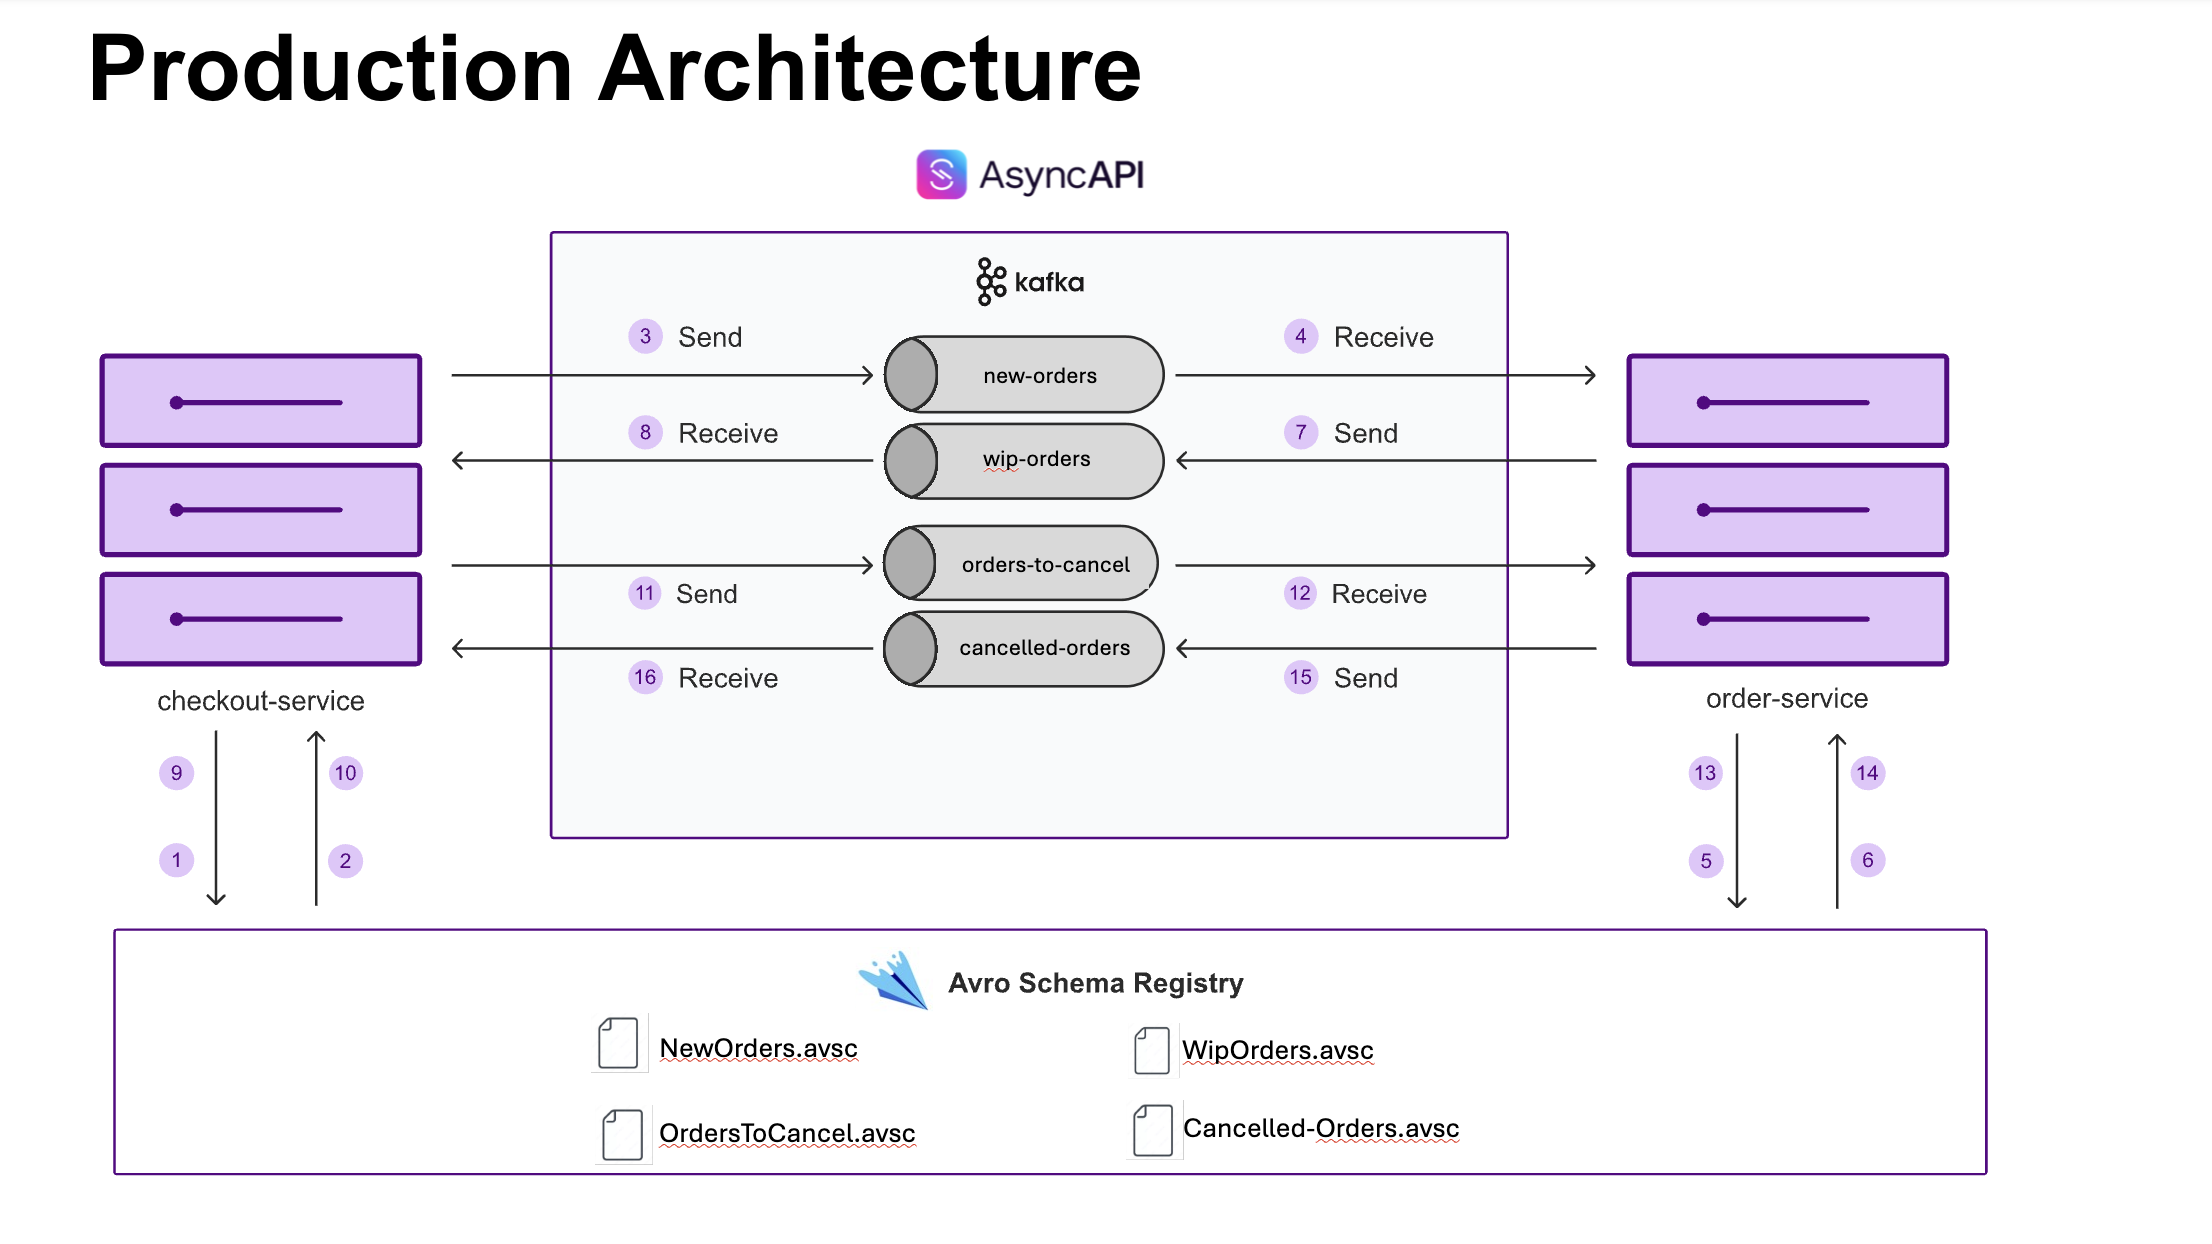
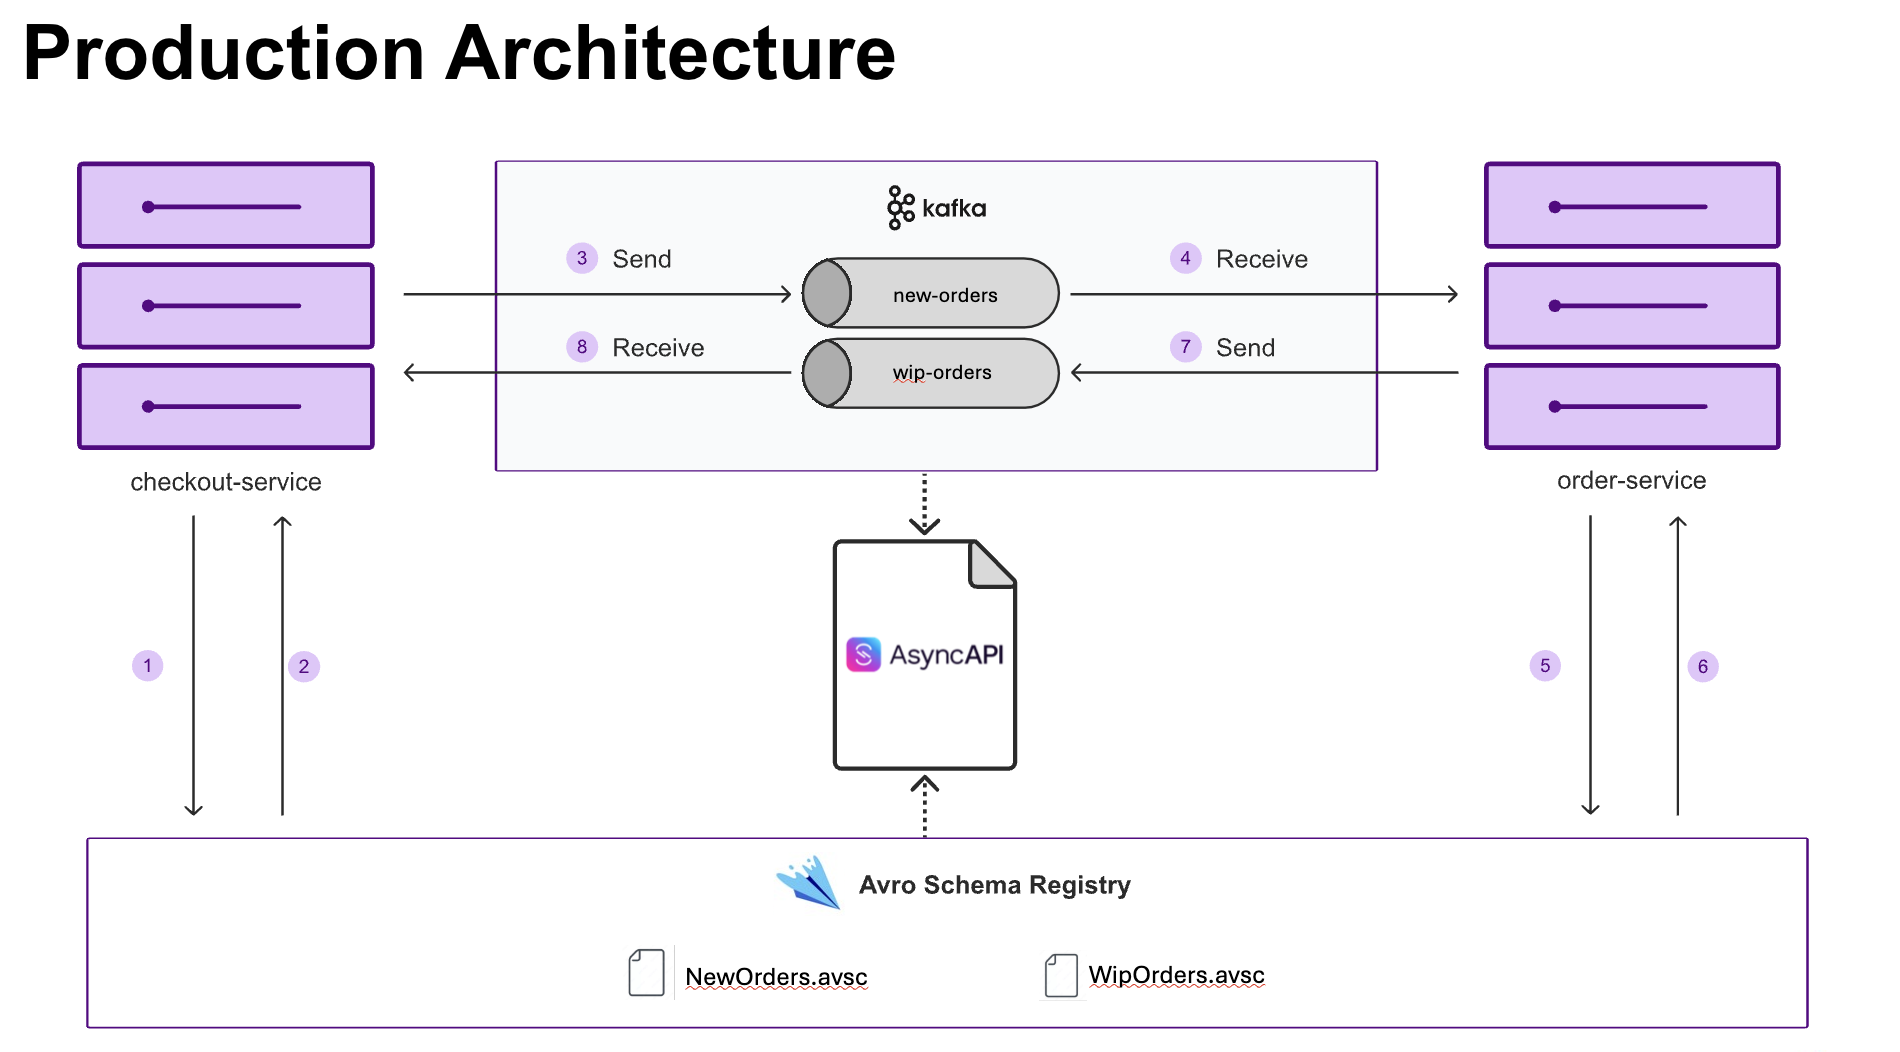
chore: update avro

diff --git a/src/main/kotlin/com/example/order/OrderService.kt b/src/main/kotlin/com/example/order/OrderService.kt
@@ -1,8 +1,5 @@
 package com.example.order
 
-import order.CancelOrderRequest
-import order.CancellationReference
-import order.CancellationStatus
 import order.OrderRequest
 import order.OrderStatus
 import order.OrderToProcess
@@ -13,14 +10,11 @@ import org.springframework.stereotype.Service
 
 @Service
 class OrderService(
-    private val wipOrdersKafkaTemplate: KafkaTemplate<String, OrderToProcess>,
-    private val ordersToCancelKafkaTemplate: KafkaTemplate<String, CancellationReference>
+    private val kafkaTemplate: KafkaTemplate<String, OrderToProcess>,
 ) {
     companion object {
         private const val NEW_ORDERS_TOPIC = "new-orders"
         private const val WIP_ORDERS_TOPIC = "wip-orders"
-        private const val ORDERS_TO_CANCEL_TOPIC = "orders-to-cancel"
-        private const val CANCELLED_ORDERS_TOPIC = "cancelled-orders"
     }
 
     private val serviceName = this::class.simpleName
@@ -38,20 +32,7 @@ class OrderService(
             .setId(orderRequest.id)
             .setStatus(OrderStatus.PROCESSING)
             .build()
-        wipOrdersKafkaTemplate.send(WIP_ORDERS_TOPIC, orderToProcess)
+        kafkaTemplate.send(WIP_ORDERS_TOPIC, orderToProcess)
         println("[$serviceName] Sent message to topic $WIP_ORDERS_TOPIC - $orderToProcess")
-    }
-
-    @KafkaListener(topics = [ORDERS_TO_CANCEL_TOPIC])
-    fun cancelOrder(record: ConsumerRecord<String, CancelOrderRequest>) {
-        val cancelOrderRequest = record.value()
-
-        val cancellationReference = CancellationReference.newBuilder()
-            .setReference(cancelOrderRequest.id)
-            .setStatus(CancellationStatus.COMPLETED)
-            .build()
-
-        ordersToCancelKafkaTemplate.send(CANCELLED_ORDERS_TOPIC, cancellationReference)
-        println("[$serviceName] Sent message to topic $CANCELLED_ORDERS_TOPIC - $cancellationReference")
     }
 }

diff --git a/README.md b/README.md
@@ -6,39 +6,14 @@
 
 This sample demonstrates **contract-first development** for asynchronous microservices communication. It showcases how to implement reliable contract testing using AsyncAPI specifications with Avro Schema Registry integration.
 
-## Architecture
-
 ![Architecture Diagram](avro-sample-architecture.png)
-
-#### TODO: AsyncAPI spec in middle with reference to schema registry, need a test architecturre diagram also
 
 The application demonstrates a typical order processing flow between `checkout-service` and `order-service` communicating through Kafka topics with Avro serialization.
 
-## Key Benefits 
+## Referencing your existing Avro files your schema registry in AsyncAPI spec
 
-#### TODO: Maybe push this to the end or remove it altogether, we need to get to running tests quickly after orienting users or architecture
-
-### 🎯 Contract-First Development
-- **AsyncAPI 3.0 specification** captures the API contract in an unambiguous mutually understood industry standard format
-- **Schema Registry integration** ensures that provider, consumer teams and everyone involved are referring to single source of truth
-- **Automated contract testing** ensure service implementations adhere to API contract
-
-### 🔄 Schema Evolution Management
-- **Avro schemas** provide backward compatibility
-- **Multi-format schema support** in AsyncAPI specifications
-- **Dynamic schema references** to Schema Registry endpoints
-
-### 🚀 Production Confidence
-- **Automated validation** catches breaking changes early
-- **Type-safe messaging** with generated POJOs
-- **End-to-end testing** with real infrastructure
-
-## AsyncAPI Specification Highlights
-
-### Referencing your existing Avro files your schema registry in AsyncAPI spec
-
-The AsyncAPI specification that this application is based on reuses the Avro schemas by referencing them instead of redefining them again. 
-This ensures that we have a single source of truth for the schemas which is the schemas present in the schema registry.
+The AsyncAPI specification that this application is based on **reuses the Avro schemas by referencing them instead of redefining them again**. 
+This ensures that we have **a single source of truth** for the schemas which is the schemas present in the schema registry.
 
 ```yaml
 components:
@@ -52,38 +27,15 @@ components:
           $ref: 'http://localhost:8085/subjects/new-orders-value/versions/1/schema'
 ```
 
-### Key Benefits:
-- **Live schema references** - Always uses current registry schemas
-- **No schema duplication** - Single source of truth
-- **Runtime validation** - Ensures spec-to-implementation consistency
-
-## Schema Management
-
-### Schema Organization
-```
-src/main/avro/
-├── NewOrders.avsc          # Order creation events
-├── WipOrders.avsc          # Work-in-progress updates
-├── OrdersToCancel.avsc     # Cancellation requests
-└── CancelledOrders.avsc    # Cancellation confirmations
-```
-
-### Registration Process
-Schemas are automatically registered during test setup via `register-schemas.sh` script, ensuring tests run against the actual schema registry.
-
-## Contract Testing Strategy
-
-### What Gets Tested:
-- **Message publishing** to correct topics
-- **Schema compatibility** with registry
-- **Consumer behavior** on message receipt
-- **Error handling** for malformed messages
-
-## Quick Start
+## Contract Testing the application
 
 ### Prerequisites
 - Java 17+
 - Docker & Docker Compose
+
+![Test Architecture Diagram](avro-sample-test-architecture.png)
+
+The `order-service` is the system under test in our case.
 
 ### Run Contract Tests Programmatically
 ```bash
@@ -141,6 +93,26 @@ Stop the application by stopping the `./gradle bootRun` process using Ctrl + C
 docker compose down -v
 ```
 
+### What Gets Tested:
+- **Message publishing** to correct topics
+- **Schema compatibility** with registry
+- **Consumer behavior** on message receipt
+- **Error handling** for malformed messages
+
+## Schema Management
+
+### Schema Organization
+```
+src/main/avro/
+├── NewOrders.avsc          # Order creation events
+├── WipOrders.avsc          # Work-in-progress updates
+├── OrdersToCancel.avsc     # Cancellation requests
+└── CancelledOrders.avsc    # Cancellation confirmations
+```
+
+### Registration Process
+Schemas are automatically registered during test setup via `register-schemas.sh` script, ensuring tests run against the actual schema registry.
+
 ## Business Impact
 
 ### Development Benefits
@@ -164,4 +136,4 @@ Traditional integration testing often misses **contract compatibility issues** t
 
 ---
 
-**Ready to implement contract testing in your microservices?** This sample provides the complete foundation for production-ready contract testing with AsyncAPI and Avro Schema Registry.
+**Ready to implement contract testing in your microservices?** This sample provides the complete foundation for contract testing with AsyncAPI and Avro Schema Registry.
